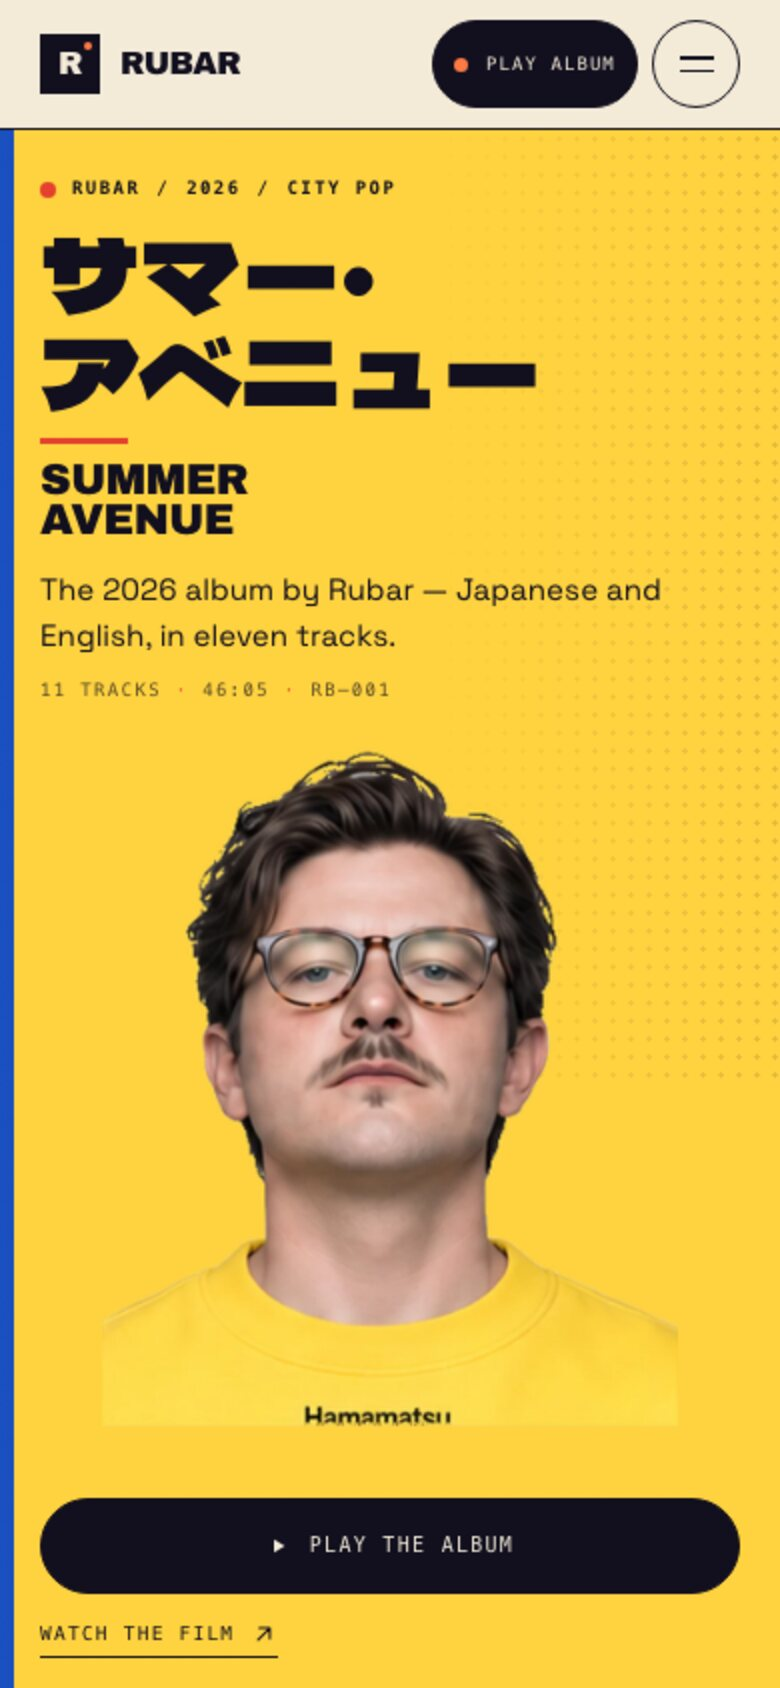
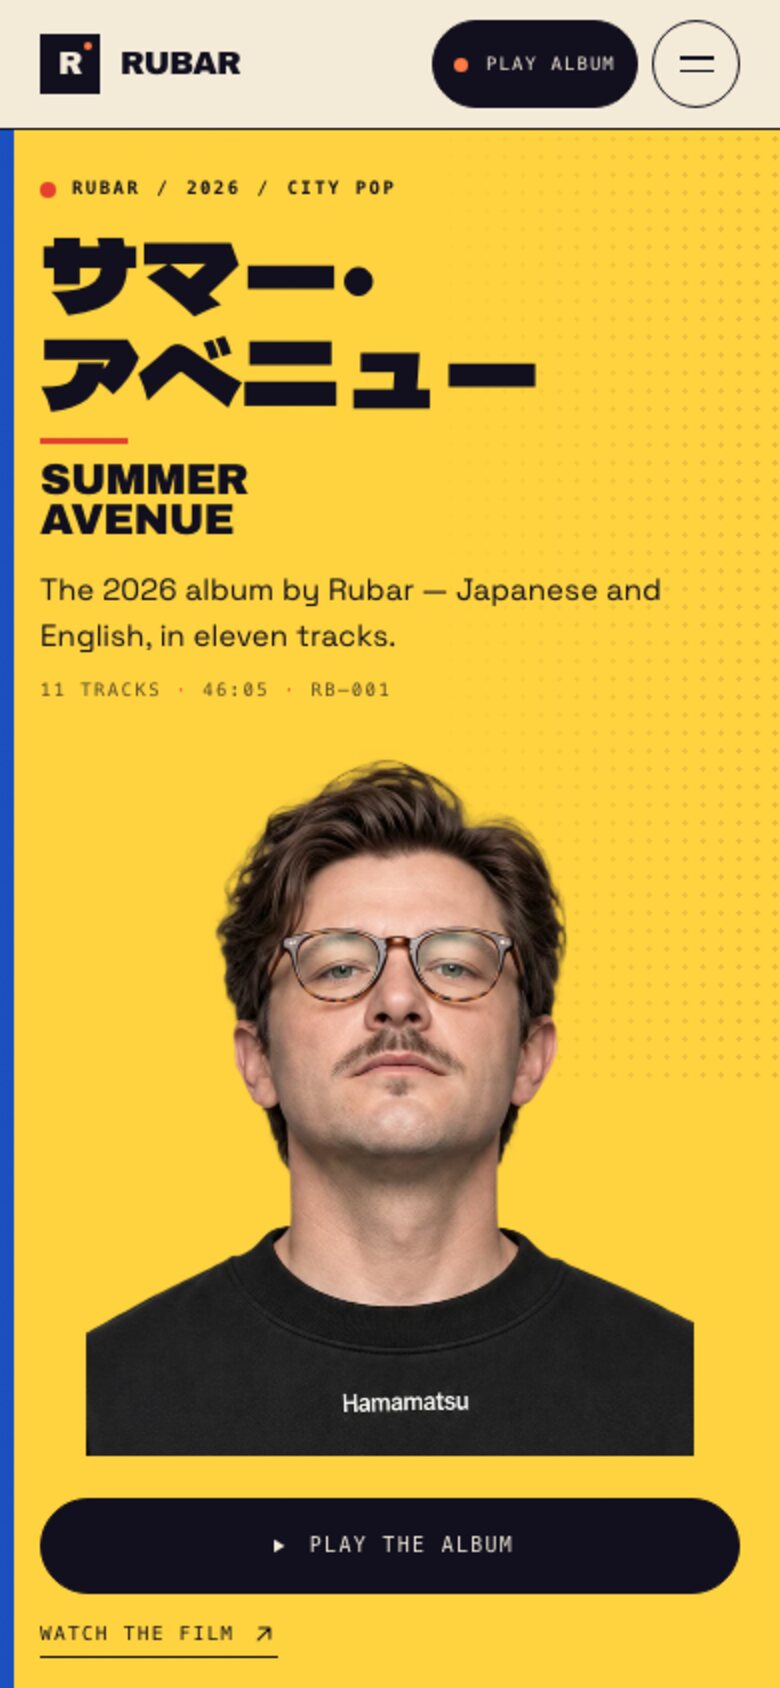
Use approved cover, black hero portrait, and four-face sheet crop

Changed region(s): [[0.0923, 0.4313, 0.8923, 0.8626]]

diff --git a/index.html b/index.html
@@ -14,14 +14,16 @@
   <meta property="og:title" content="Summer Avenue — Rubar">
   <meta property="og:description" content="Eleven city-pop songs for the long way home. The 2026 album by Rubar.">
   <meta property="og:url" content="https://rouslanbaranov.github.io/summer-avenue/">
-  <meta property="og:image" content="https://rouslanbaranov.github.io/summer-avenue/assets/img/og.jpg">
+  <meta property="og:image" content="https://rouslanbaranov.github.io/summer-avenue/assets/img/og-summer-avenue.jpg">
+  <meta property="og:image:alt" content="Summer Avenue album artwork: an illustrated evening Japanese street with a mint-green kei van and a figure in a yellow Hamamatsu T-shirt and short-brim straw hat.">
   <meta property="og:image:width" content="1200">
   <meta property="og:image:height" content="630">
   <meta property="og:locale" content="en_US">
   <meta name="twitter:card" content="summary_large_image">
   <meta name="twitter:title" content="Summer Avenue — Rubar">
   <meta name="twitter:description" content="Eleven city-pop songs for the long way home. The 2026 album by Rubar.">
-  <meta name="twitter:image" content="https://rouslanbaranov.github.io/summer-avenue/assets/img/og.jpg">
+  <meta name="twitter:image" content="https://rouslanbaranov.github.io/summer-avenue/assets/img/og-summer-avenue.jpg">
+  <meta name="twitter:image:alt" content="Summer Avenue album artwork: an illustrated evening Japanese street with a mint-green kei van and a figure in a yellow Hamamatsu T-shirt and short-brim straw hat.">
 
   <link rel="icon" href="assets/img/favicon.svg" type="image/svg+xml">
   <link rel="apple-touch-icon" href="assets/img/apple-touch-icon.png">
@@ -31,7 +33,7 @@
   <link rel="preconnect" href="https://fonts.gstatic.com" crossorigin>
   <link href="https://fonts.googleapis.com/css2?family=Archivo+Black&amp;family=Dela+Gothic+One&amp;family=Noto+Sans+JP:wght@400;500;700&amp;family=Space+Grotesk:wght@400;500;600;700&amp;display=swap" rel="stylesheet">
 
-  <link rel="preload" as="image" href="assets/img/hero-rubar.webp" type="image/webp">
+  <link rel="preload" as="image" href="assets/img/hero-rubar-black.webp" type="image/webp">
   <link rel="stylesheet" href="assets/css/styles.css">
   <script>
     document.documentElement.classList.add('js');
@@ -51,7 +53,7 @@
     "name": "Summer Avenue",
     "alternateName": "サマー・アベニュー",
     "url": "https://rouslanbaranov.github.io/summer-avenue/",
-    "image": "https://rouslanbaranov.github.io/summer-avenue/assets/img/cover-1600.jpg",
+    "image": "https://rouslanbaranov.github.io/summer-avenue/assets/img/cover-summer-avenue-1254.jpg",
     "byArtist": { "@type": "MusicGroup", "name": "Rubar" },
     "datePublished": "2026",
     "numTracks": 11,
@@ -124,7 +126,7 @@
       <a href="#notes"><span>04</span>Notes</a>
     </nav>
     <div class="mobile-menu__foot">
-      <img src="assets/img/cover-200.jpg" width="80" height="80" alt="" loading="lazy">
+      <img src="assets/img/cover-summer-avenue-200.jpg" width="80" height="80" alt="" loading="lazy">
       <div>
         <p class="mobile-menu__title">SUMMER AVENUE</p>
         <p class="mobile-menu__meta">RUBAR · 2026 · 11 TRACKS</p>
@@ -165,8 +167,8 @@
 
         <div class="hero-poster__portrait">
           <picture>
-            <source type="image/webp" srcset="assets/img/hero-rubar.webp">
-            <img src="assets/img/hero-rubar.png" width="697" height="856" alt="Rubar, chin raised, wearing a yellow Hamamatsu T-shirt." fetchpriority="high" decoding="async">
+            <source type="image/webp" srcset="assets/img/hero-rubar-black.webp">
+            <img src="assets/img/hero-rubar-black.png" width="600" height="700" alt="Rubar, chin raised, wearing a black Hamamatsu T-shirt." fetchpriority="high" decoding="async">
           </picture>
         </div>
 
@@ -197,8 +199,8 @@
         <div class="record__art" data-reveal>
           <div class="record__frame">
             <picture>
-              <source type="image/webp" srcset="assets/img/cover-800.webp 800w, assets/img/cover-1600.webp 1600w" sizes="(max-width: 900px) 82vw, 480px">
-              <img src="assets/img/cover-800.jpg" srcset="assets/img/cover-800.jpg 800w, assets/img/cover-1600.jpg 1600w" sizes="(max-width: 900px) 82vw, 480px" width="1600" height="1600" alt="Summer Avenue album artwork" loading="lazy" decoding="async">
+              <source type="image/webp" srcset="assets/img/cover-summer-avenue-800.webp 800w, assets/img/cover-summer-avenue-1254.webp 1254w" sizes="(max-width: 900px) 82vw, 480px">
+              <img src="assets/img/cover-summer-avenue-800.jpg" srcset="assets/img/cover-summer-avenue-800.jpg 800w, assets/img/cover-summer-avenue-1254.jpg 1254w" sizes="(max-width: 900px) 82vw, 480px" width="1254" height="1254" alt="Summer Avenue album artwork: an illustrated evening Japanese street with a mint-green kei van and a figure in a yellow Hamamatsu T-shirt and short-brim straw hat, looking down." loading="lazy" decoding="async">
             </picture>
           </div>
           <p class="record__caption">RB–001 <span>/</span> 2026 <span>/</span> 11 TRACKS</p>
@@ -244,7 +246,10 @@
           <p class="interlude__credits">RUBAR <span>/</span> HAMAMATSU</p>
         </div>
         <figure class="interlude__photo">
-          <img src="assets/img/character-black.jpg" width="490" height="780" alt="" loading="lazy" decoding="async">
+          <picture>
+            <source type="image/webp" srcset="assets/img/character-black-2026.webp">
+            <img src="assets/img/character-black-2026.jpg" width="660" height="470" alt="" loading="lazy" decoding="async">
+          </picture>
           <figcaption>RUBAR <span>/</span> 2026</figcaption>
           <span class="interlude__tape"></span>
         </figure>
@@ -501,7 +506,7 @@
     <div class="container player__inner">
       <a class="player__info" href="#tracklist">
         <span class="sr-only">Go to tracklist</span>
-        <img class="player__cover" src="assets/img/cover-200.jpg" width="200" height="200" alt="">
+        <img class="player__cover" src="assets/img/cover-summer-avenue-200.jpg" width="200" height="200" alt="">
         <span class="player__text">
           <span class="player__title" data-player-title>Summer Avenue</span>
           <span class="player__sub" data-player-sub>Rubar · 2026</span>

diff --git a/tools/og.html b/tools/og.html
@@ -71,21 +71,8 @@
   .art {
     position: absolute; right: 62px; top: 112px; z-index: 3;
     width: 365px;
-    border: 6px solid #f3ead8;
-    transform: rotate(-3deg);
-    box-shadow: 0 40px 80px rgba(0,0,0,.55);
   }
   .art img { display: block; width: 100%; }
-  .sticker {
-    position: absolute; right: 32px; top: 74px; z-index: 4;
-    display: grid; place-content: center;
-    width: 88px; height: 88px;
-    border: 2px solid #f3ead8; border-radius: 50%;
-    background: #e5402f; color: #f3ead8;
-    font-family: ui-monospace, Menlo, monospace; font-size: 10px; line-height: 1.1; letter-spacing: .1em;
-    text-align: center; transform: rotate(9deg);
-  }
-  .sticker b { display: block; font-family: "Archivo Black", sans-serif; font-size: 26px; line-height: 1; }
   .strip {
     position: absolute; left: 0; right: 0; bottom: 0; z-index: 5;
     display: flex; align-items: center; gap: 25px;
@@ -107,8 +94,7 @@
     <div class="jp-strip">サマー・アベニュー</div>
     <p class="meta"><b>RUBAR</b> · 11 TRACKS · 46:05</p>
   </div>
-  <div class="art"><img src="../assets/img/cover-800.jpg" alt="Summer Avenue cover"></div>
-  <div class="sticker"><b>11</b>TRACKS</div>
+  <div class="art"><img src="../assets/img/cover-summer-avenue-800.jpg" alt="Summer Avenue album artwork"></div>
   <div class="strip">
     <span class="jp">サマー・アベニュー</span><span>✳</span>
     <span>SUMMER AVENUE</span><span>✳</span>

diff --git a/assets/js/main.js b/assets/js/main.js
@@ -349,9 +349,9 @@
           artist: 'Rubar',
           album: 'Summer Avenue',
           artwork: [
-            { src: 'assets/img/cover-200.jpg', sizes: '200x200', type: 'image/jpeg' },
-            { src: 'assets/img/cover-800.jpg', sizes: '800x800', type: 'image/jpeg' },
-            { src: 'assets/img/cover-1600.jpg', sizes: '1600x1600', type: 'image/jpeg' }
+            { src: 'assets/img/cover-summer-avenue-200.jpg', sizes: '200x200', type: 'image/jpeg' },
+            { src: 'assets/img/cover-summer-avenue-800.jpg', sizes: '800x800', type: 'image/jpeg' },
+            { src: 'assets/img/cover-summer-avenue-1254.jpg', sizes: '1254x1254', type: 'image/jpeg' }
           ]
         });
       } catch (error) {

diff --git a/assets/css/styles.css b/assets/css/styles.css
@@ -3050,7 +3050,9 @@ body.has-player .toast { bottom: calc(var(--player-h) + 18px); }
 .interlude__photo img {
   display: block;
   width: 100%;
-  height: auto;
+  aspect-ratio: 3 / 4;
+  object-fit: cover;
+  object-position: 50% 22%;
 }
 
 .interlude__photo figcaption {
@@ -3452,8 +3454,6 @@ body.is-playing .play-pill:hover .play-pill__dot { background: var(--red); }
   height: 100%;
   object-fit: contain;
   object-position: bottom center;
-  -webkit-mask-image: linear-gradient(to right, transparent 0%, #000 4%, #000 96%, transparent 100%);
-  mask-image: linear-gradient(to right, transparent 0%, #000 4%, #000 96%, transparent 100%);
 }
 
 .hero-poster__copy {

diff --git a/README.md b/README.md
@@ -61,9 +61,9 @@ The palette is documented in `assets/css/styles.css`:
 
 ![Summer Avenue — the interlude](docs/interlude-desktop.jpg)
 
-The first screen is an all-yellow Japanese-release poster. It uses the approved chin-up portrait from the latest **yellow Hamamatsu sheet** (top-right frame), cut out to transparency and set directly on the yellow with no card, sleeve, vinyl, or frame. The Japanese title is live HTML in Dela Gothic One (`lang="ja"`); the English title is the second level; the portrait, title, and **Play the album** action share the first screen.
+The first screen is an all-yellow Japanese-release poster. It uses the supplied **black Hamamatsu hero portrait** (1024×1536), cropped to a 600×700 head/shoulder portrait and matted against the yellow with no card, sleeve, vinyl, or frame. The Japanese title is live HTML in Dela Gothic One (`lang="ja"`); the English title is the second level; the portrait, title, and **Play the album** action share the first screen.
 
-The Record shows the official cover flat, with a hairline border and plain metadata — no tilt, vinyl, stamp, tape, spine, or offset block. The interlude remains the single collage accent: one diagonal red plane, a blue edge, the Japanese title, and a portrait crop from the latest **black Hamamatsu sheet**, captioned `RUBAR / 2026`. The Notes portrait keeps the yellow-shirt reference, with its `Hamamatsu` mark locally reduced toward the sheet's scale.
+The Record shows the new official cover flat — the 1254×1254 artwork has no Rubar wordmark; a hairline border and plain metadata are the only framing. The interlude remains the single collage accent: one diagonal red plane, a blue edge, the Japanese title, and the top-left front face from the new **4-face Hamamatsu sheet**, cropped and converted to B&W, captioned `RUBAR / 2026`. The Notes portrait remains the yellow-shirt portrait, with its `Hamamatsu` mark locally reduced.
 
 ## Project structure
 
@@ -73,7 +73,7 @@ The Record shows the official cover flat, with a hairline border and plain metad
 ├── assets/
 │   ├── audio/              # 11 × 320 kbps MP3 website streams
 │   ├── css/styles.css
-│   ├── img/                # cover, portrait, poster, icons, og.jpg
+│   ├── img/                # cover, black hero portrait, sheet crop, yellow portrait, poster, icons, og
 │   ├── js/main.js
 │   └── video/              # 15s film, 720×1280 H.264
 ├── docs/                   # README previews + section screenshots
@@ -110,7 +110,7 @@ open http://127.0.0.1:8765/tools/og.html
 - **Copy and sections:** `index.html`.
 - **Palette, type, layout:** `assets/css/styles.css`.
 - **Player behaviour:** `assets/js/main.js`.
-- **Cover / hero cutout / portrait / poster:** `assets/img/` — the hero uses `hero-rubar.png` with a `hero-rubar.webp` source; the sheet itself is not shipped as a web asset.
+- **Cover / hero cutout / portrait / poster:** `assets/img/` — the hero uses `hero-rubar-black.png` with a `hero-rubar-black.webp` source; the collage uses the 660×470 `character-black-2026` crop. The full sheets are not shipped as web assets.
 - **Film:** `assets/video/summer-avenue-film.mp4`, with `assets/img/film-poster.jpg`.
 - **Streaming / social / store links:** not wired yet. Add them to the outro section when the album is live on platforms. Release date is shown as **2026** only; update if a specific date is set.
 - **Custom domain:** add a `CNAME`, then update the canonical URL, Open Graph image URL, sitemap, and robots sitemap line.
@@ -136,6 +136,6 @@ Live URL: **https://rouslanbaranov.github.io/summer-avenue/**
 
 ## Credits & rights
 
-Music, artwork, film, and character sheets: **Rubar**, 2026. The hero uses the chin-up top-right portrait from the latest yellow character sheet; the Notes portrait keeps the same yellow-shirt / `Hamamatsu` reference; the interlude uses a crop from the latest black sheet.
+Music, artwork, film, and character sheets: **Rubar**, 2026. The hero uses the supplied black Hamamatsu hero portrait; the interlude uses the top-left front of the new 4-face sheet; the Notes portrait remains the yellow-shirt version.
 
 © 2026 Rubar. All rights reserved. The music, cover artwork, portrait, and film may not be reproduced or redistributed without permission. The repository contains the website versions of the mastered recordings; it is not a grant of rights to the recordings or artwork.
